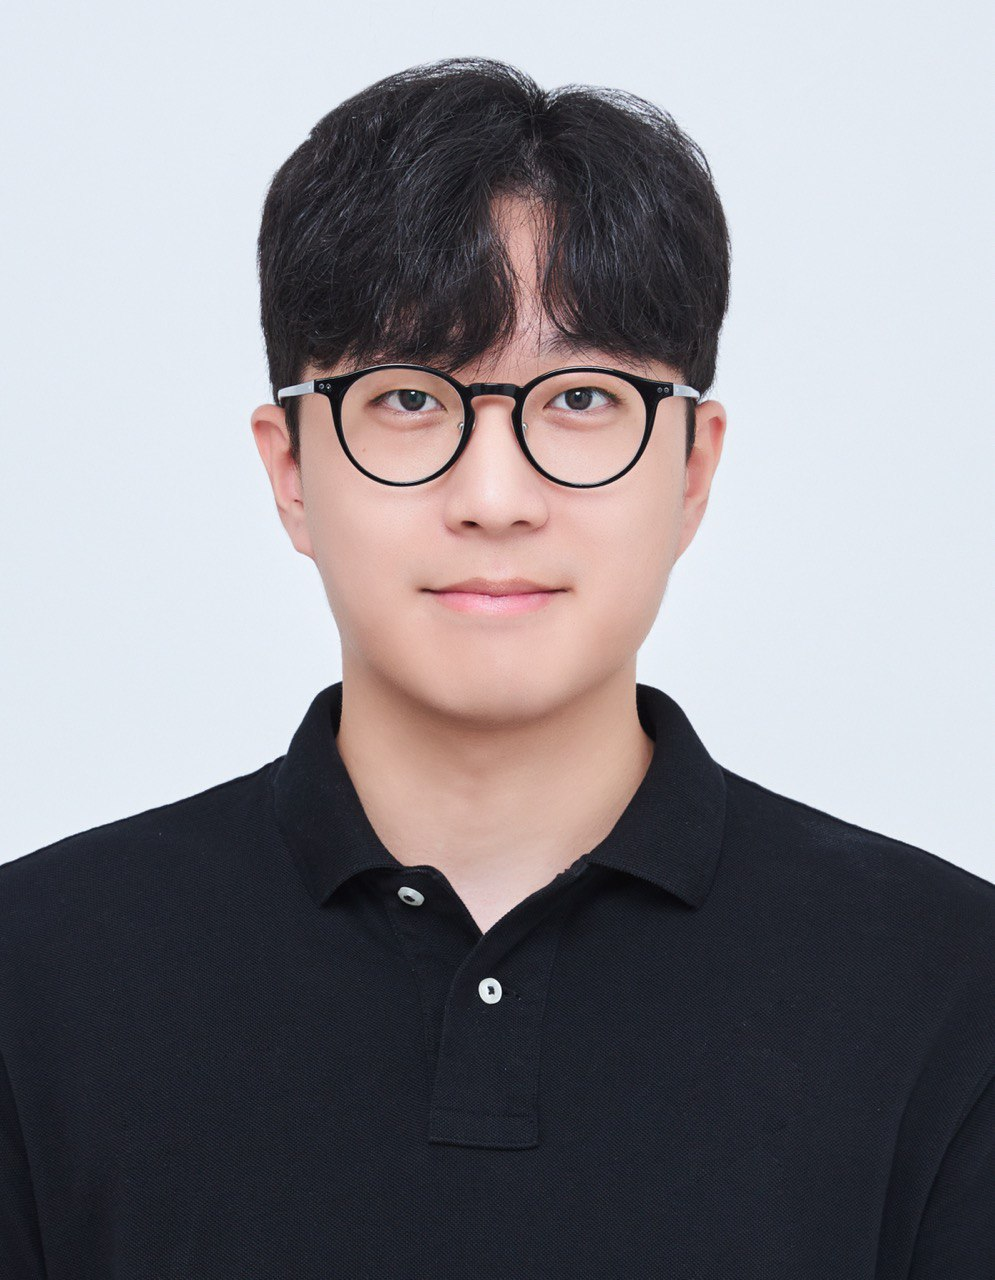
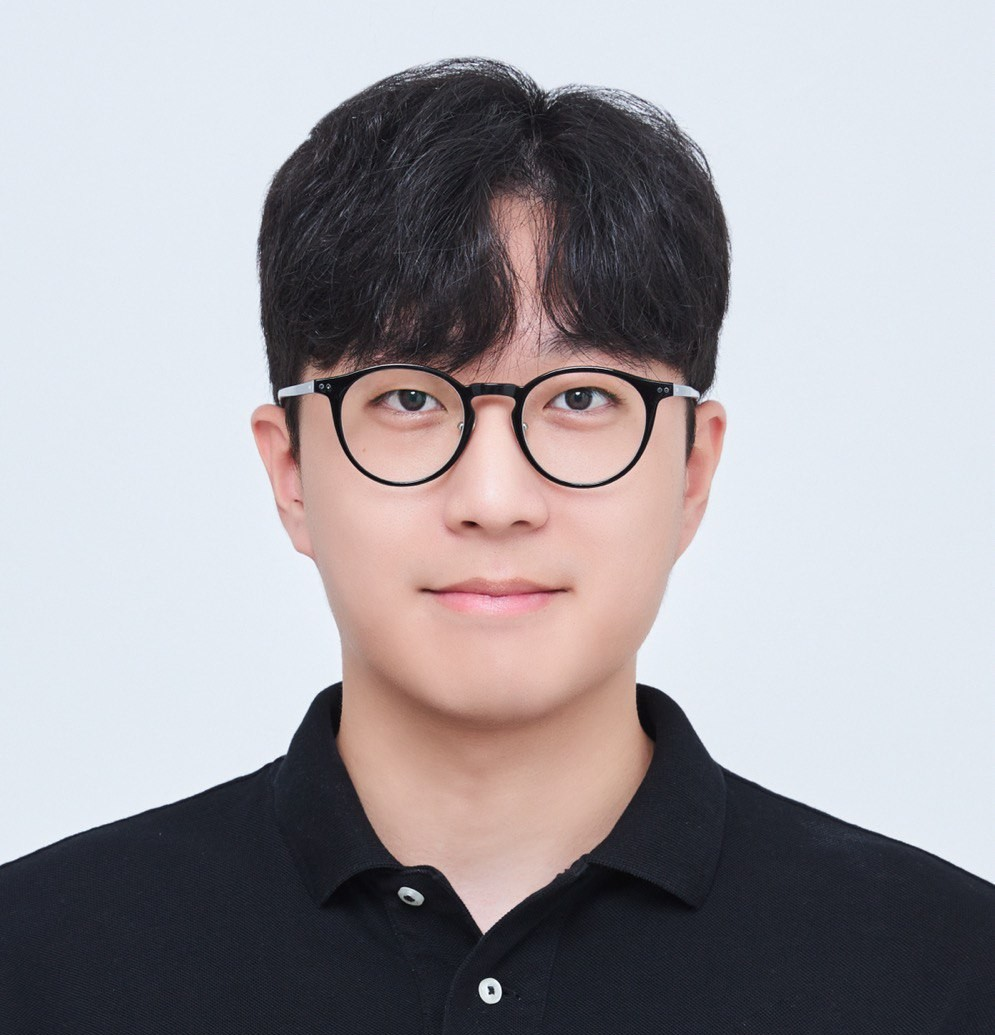
Feat: img

diff --git a/assets/css/style.scss b/assets/css/style.scss
@@ -4,8 +4,8 @@
 @import "minimal-light";
 
 .image.avatar img {
-  width: 200px;        
-  height: 200px;       
+  width: 300px;        
+  height: 300px;       
   object-fit: cover;   
   border-radius: 50%;  
 }
